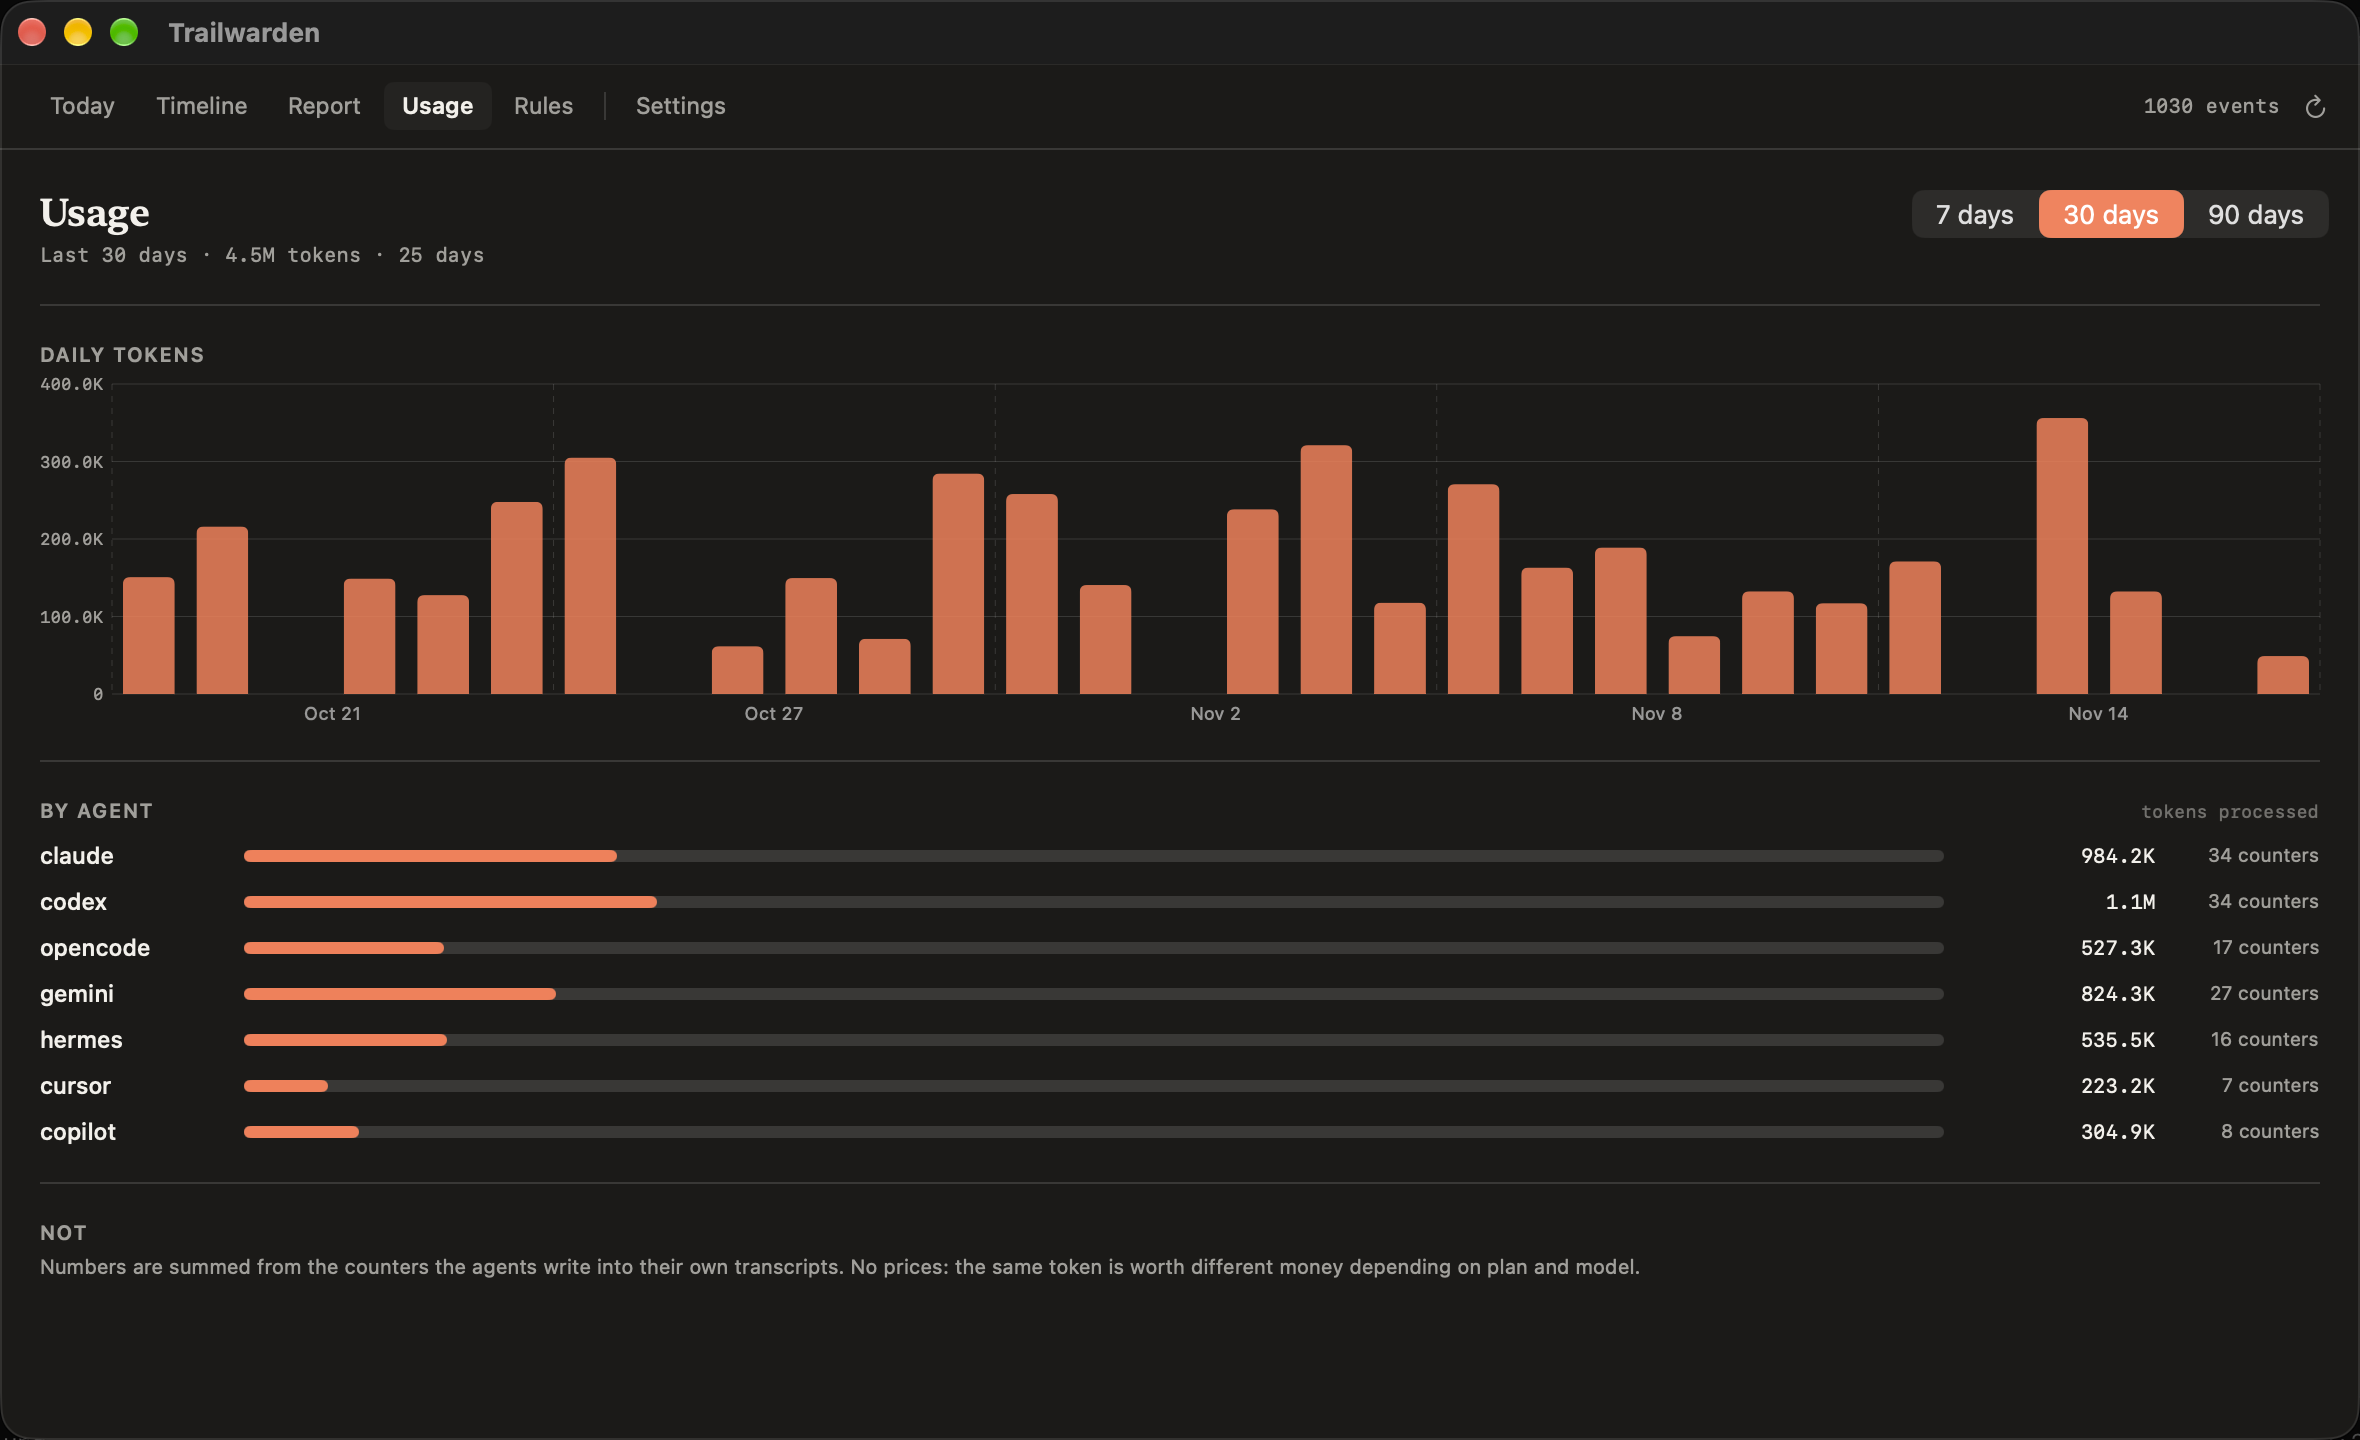
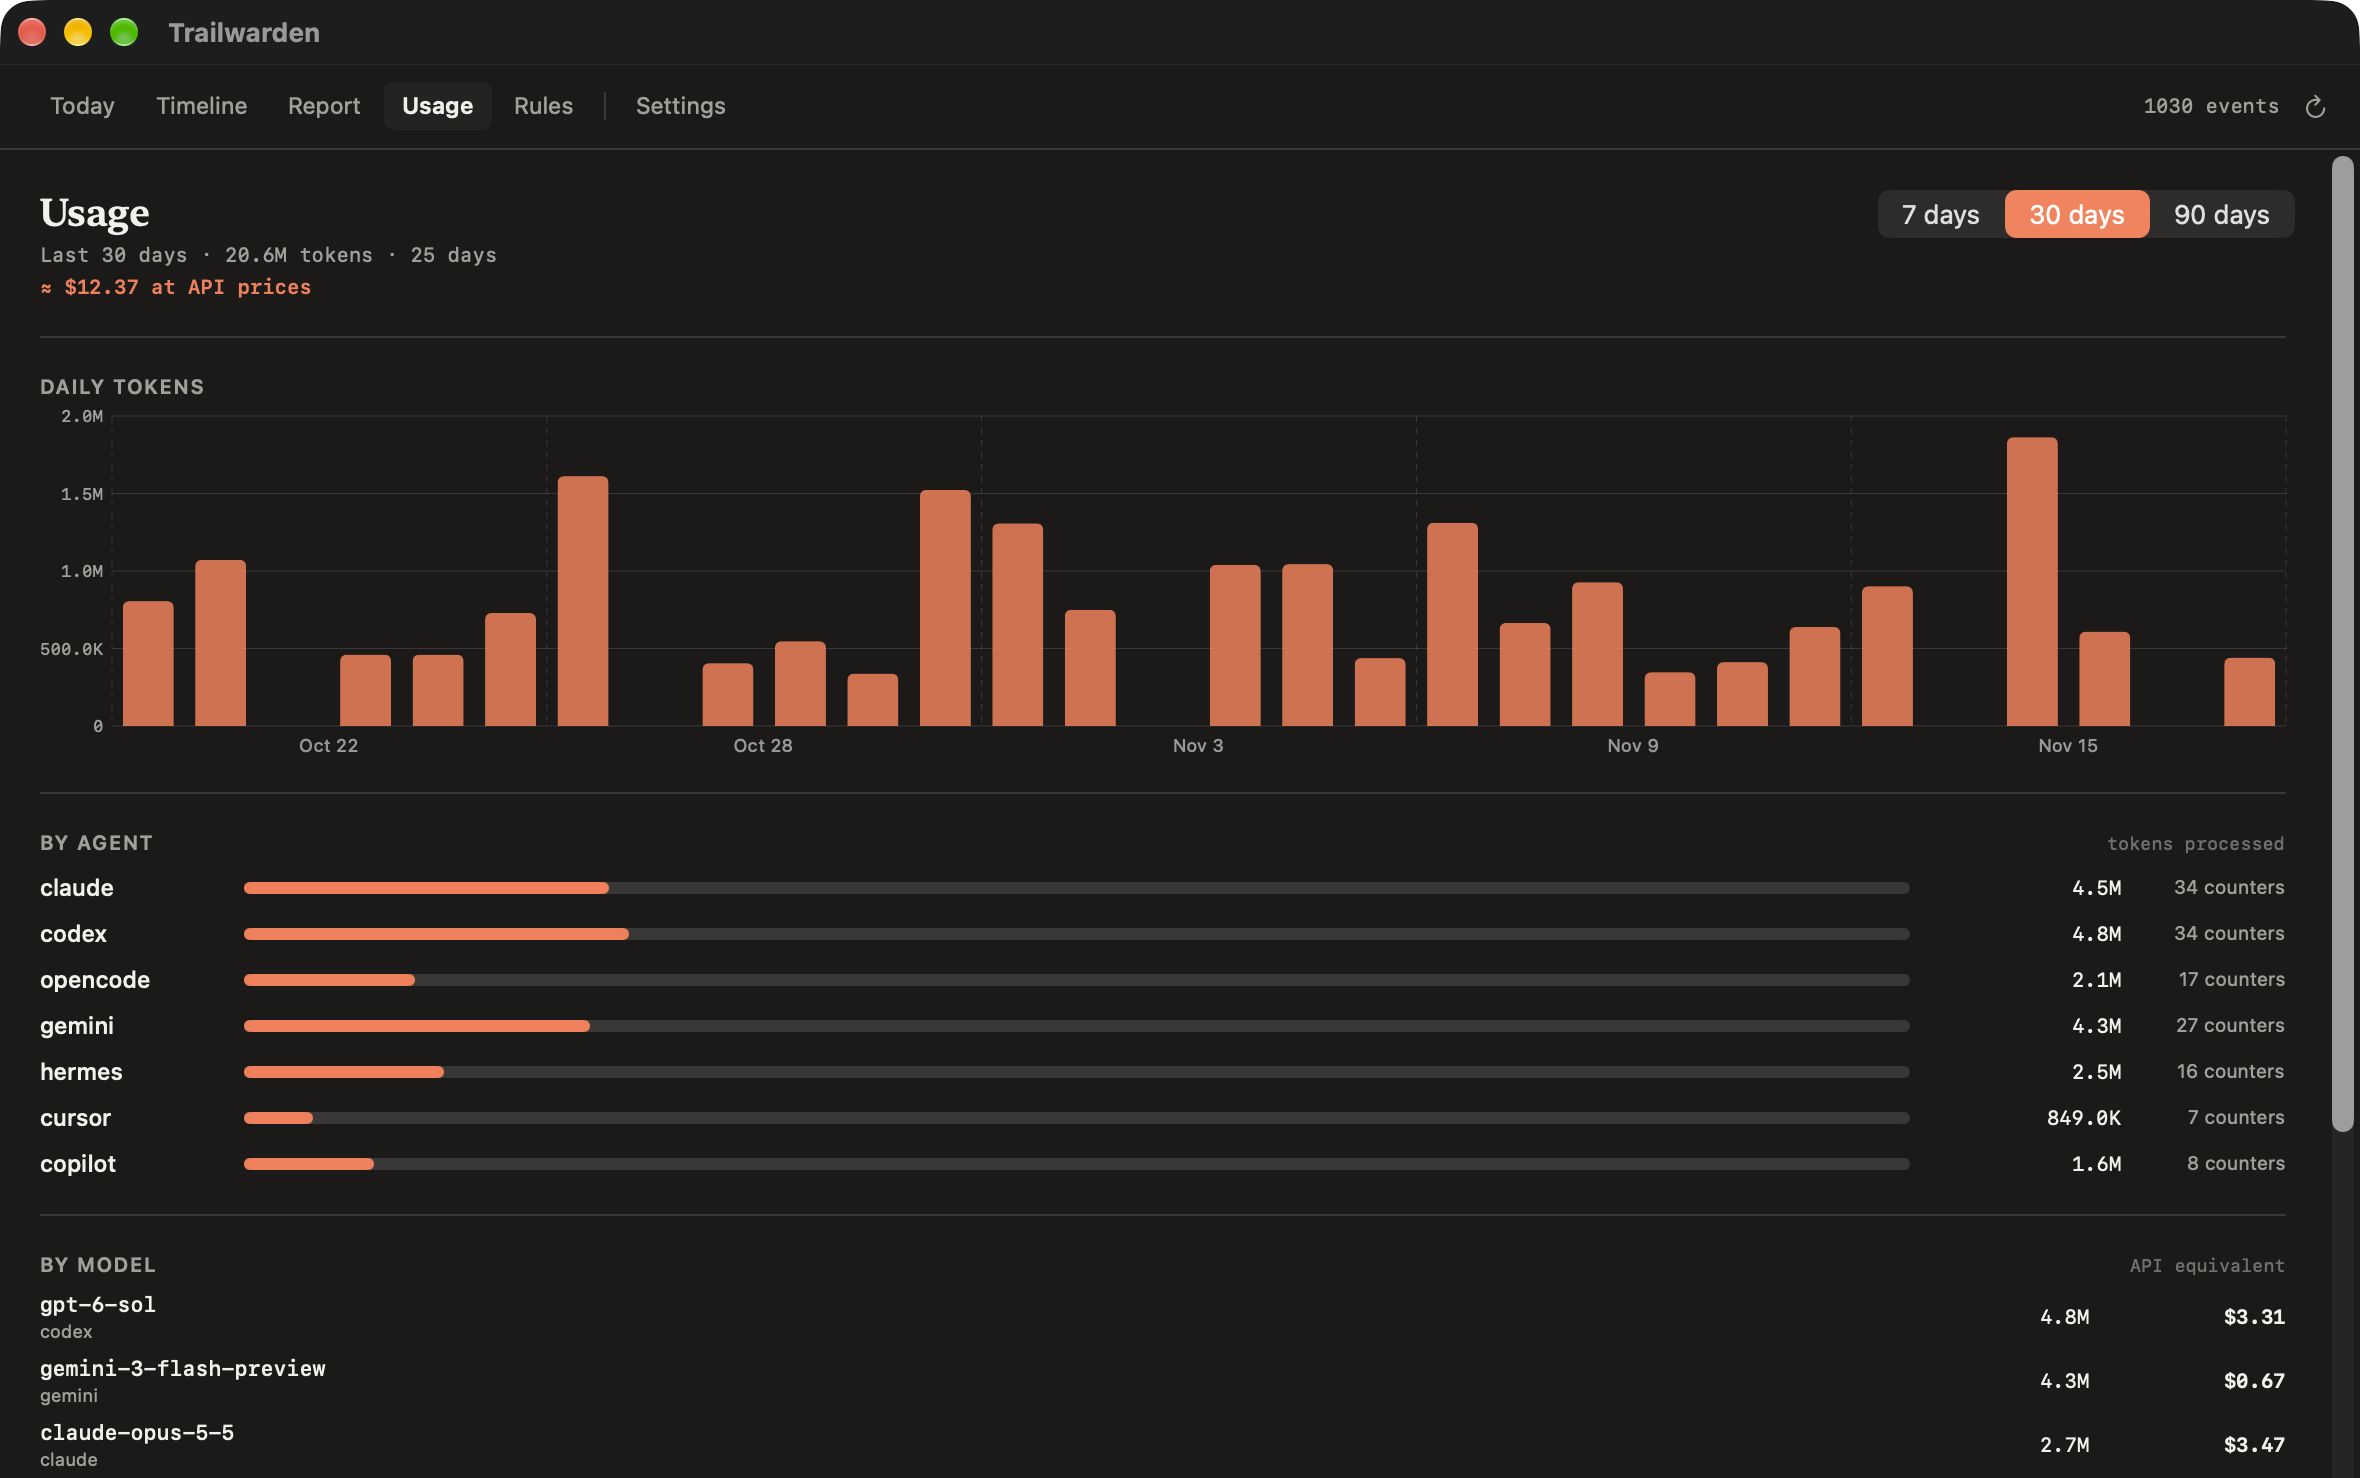
Show the cost estimate in the Usage screenshots, and give the demo database models and a cache split
The Usage captures predated 0.2.4: no estimate, no By Model section, and the
old "no prices" note. The demo now writes a model and the schema-7 token
columns for its token events and marks itself migrated, so the app keeps them;
every other invented row is unchanged.

diff --git a/scripts/seed-demo.py b/scripts/seed-demo.py
@@ -21,8 +21,34 @@ for suffix in ("-wal", "-shm"):
 
 db = sqlite3.connect(path)
 db.executescript(open(os.path.join(os.path.dirname(__file__), "demo-schema.sql")).read())
+# Schema 7: token events carry the model and the cache split. The database is
+# marked as already migrated, so the app keeps these rows instead of dropping
+# them to re-read transcripts the demo does not have.
+db.executescript("""
+ALTER TABLE events ADD COLUMN model TEXT;
+ALTER TABLE events ADD COLUMN tok_input INTEGER;
+ALTER TABLE events ADD COLUMN tok_output INTEGER;
+ALTER TABLE events ADD COLUMN tok_cache_read INTEGER;
+ALTER TABLE events ADD COLUMN tok_cache_write INTEGER;
+ALTER TABLE events ADD COLUMN tok_reasoning INTEGER;
+""")
+db.execute("CREATE TABLE IF NOT EXISTS rereads (agent TEXT PRIMARY KEY)")
+db.execute("PRAGMA user_version = 7")
+# One or two models per agent, as an agent would write them. opencode's runs on
+# a model the built-in price list does not know, so the estimate shows how an
+# unpriced model is reported.
+MODELS = {
+    "claude-code": ["claude-opus-5-5", "claude-sonnet-5-5"],
+    "codex": ["gpt-6-sol"],
+    "gemini": ["gemini-3-flash-preview"],
+    "hermes": ["deepseek-v4-pro"],
+    "cursor": ["claude-sonnet-5-5"],
+    "copilot": ["gpt-5.5"],
+    "opencode": ["qwen3.7-coder"],
+}
 
 random.seed(7)
+token_random = random.Random(11)
 now = time.time()
 # A neutral home, so a demo database never carries the real user's name.
 DEMO_HOME = "/Users/demo"
@@ -118,12 +144,21 @@ for sid, cwd, branch, agent, started in sessions:
              json.dumps(paths), preview, "[]", None, None, None),
         )
         if i % 7 == 0:
+            # The first two draws are the ones the demo always made, so the rest
+            # of the invented data (and the older screenshots) stays the same.
+            fresh = random.randint(4000, 60000)
+            out = random.randint(80, 900)
+            model = token_random.choice(MODELS[agent])
+            cache_read = token_random.randint(20000, 200000)
+            cache_write = token_random.randint(0, 8000)
             db.execute(
                 "INSERT INTO events (id, session_id, agent, kind, ts, cwd, tool, command, paths, preview,"
-                " risk, raw_json) VALUES (?,?,?,?,?,?,?,?,?,?,?,?)",
-                (f"{sid}-t{i}", sid, agent, "token_usage", ts, cwd, None, None,
-                 "[]", f"tokens: {random.randint(4000, 60000)} in / {random.randint(80, 900)} out",
-                 "[]", None),
+                " risk, raw_json, model, tok_input, tok_output, tok_cache_read, tok_cache_write,"
+                " tok_reasoning) VALUES (?,?,?,?,?,?,?,?,?,?,?,?,?,?,?,?,?,?)",
+                (f"{sid}-t{i}", sid, agent, "token_usage", ts, cwd, None, None, "[]",
+                 f"tokens: {fresh + cache_read + cache_write} in / {out} out"
+                 f" (cache read {cache_read}, cache write {cache_write}) · {model}",
+                 "[]", None, model, fresh, out, cache_read, cache_write, 0),
             )
     db.execute(
         "INSERT OR REPLACE INTO sessions (id, agent, cwd, git_branch, started_at, ended_at, event_count,"
